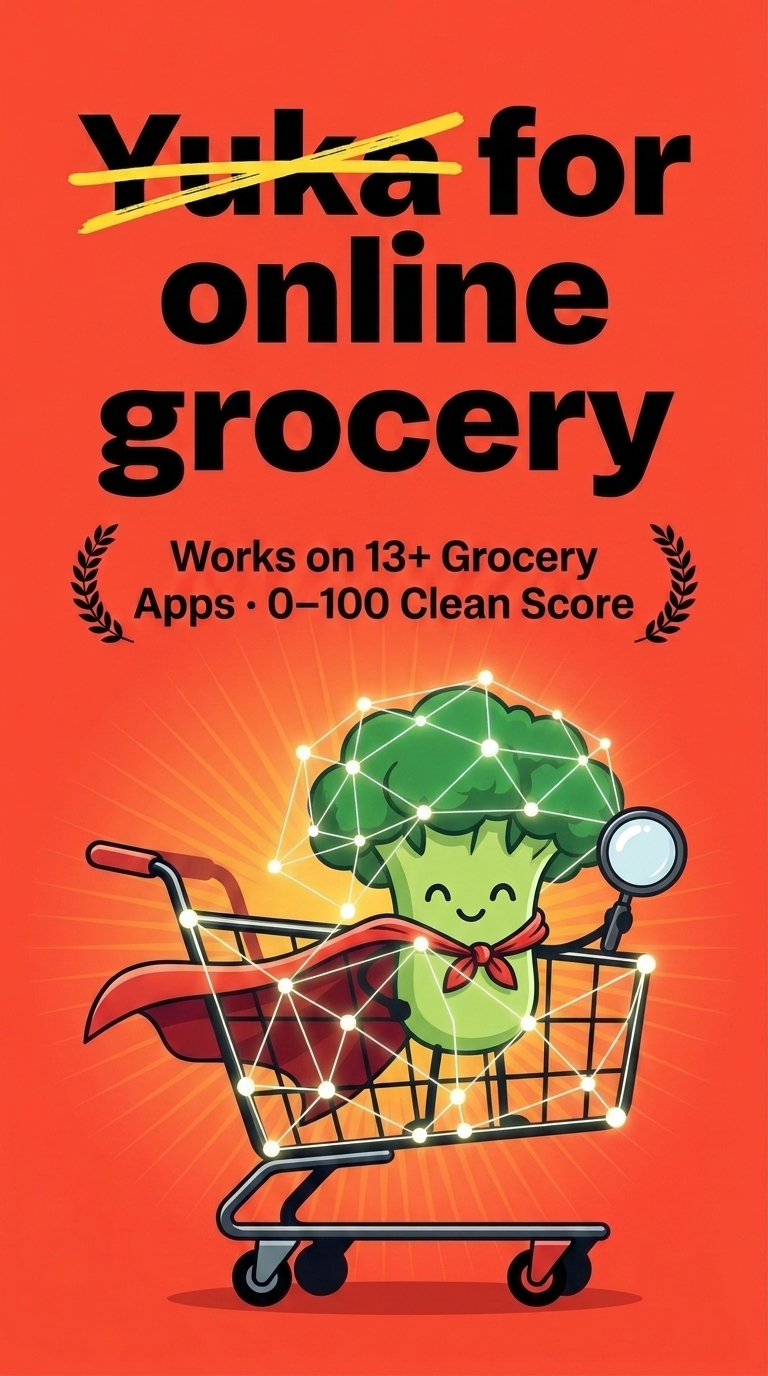
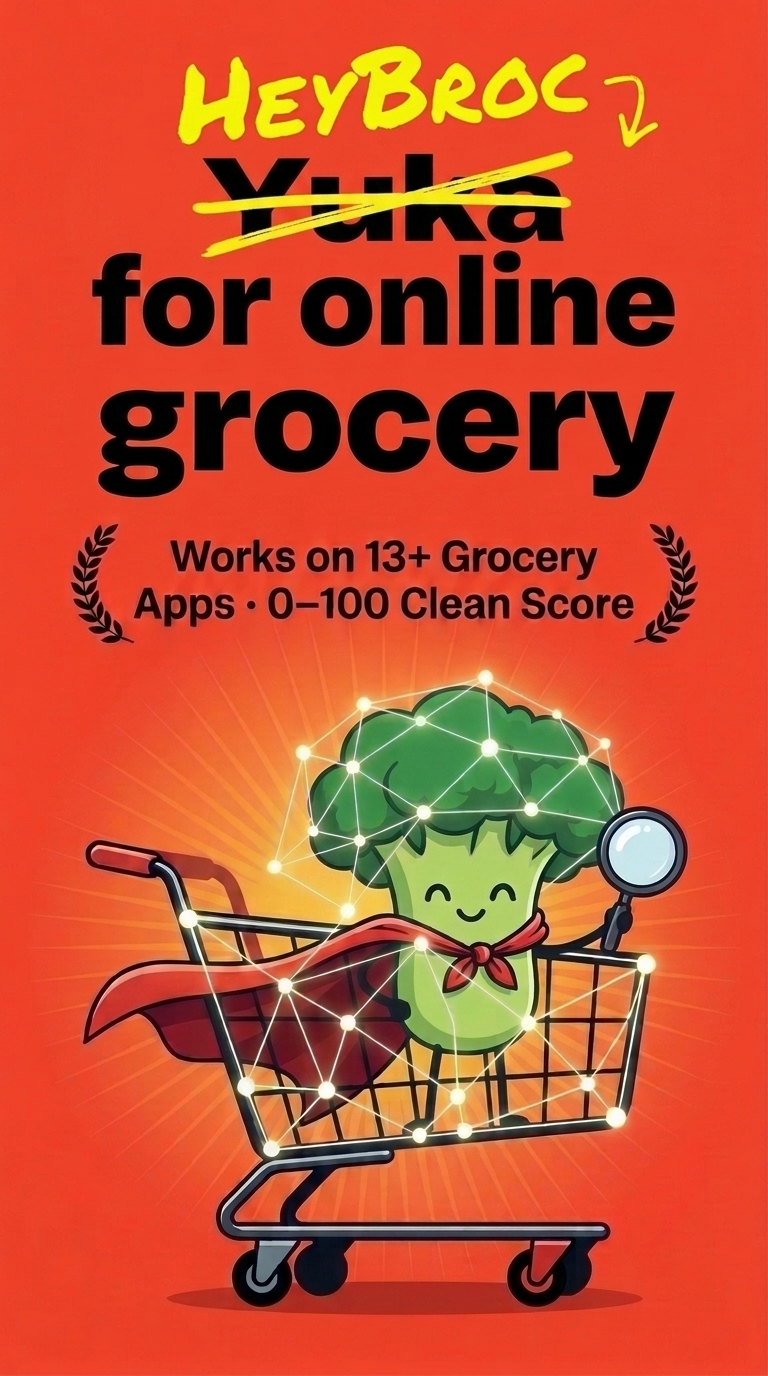
feat: add yellow HEYBROC scribble to ASO Slide 1 and build Clean Cart Streak mechanism

diff --git a/components/Simulator.tsx b/components/Simulator.tsx
@@ -603,6 +603,7 @@ export default function Simulator() {
   const [yukaTab, setYukaTab] = useState<"inspect" | "history" | "recs" | "top" | "search">("inspect");
   const [favOnly, setFavOnly] = useState(false);
   const [favorites, setFavorites] = useState<string[]>([]);
+  const [streakDays, setStreakDays] = useState<number>(1);
   const [scanHistory, setScanHistory] = useState<{ product: Product; timeLabel: string }[]>(() => [
     { product: presetToProduct(PRESETS[0]), timeLabel: "Just now" },
     { product: cleanToProduct("Butter/Dairy"), timeLabel: "12 mins ago" },
@@ -610,6 +611,26 @@ export default function Simulator() {
     { product: cleanToProduct("Yogurt"), timeLabel: "Yesterday" },
     { product: presetToProduct(PRESETS[3]), timeLabel: "3 days ago" },
   ]);
+
+  useEffect(() => {
+    try {
+      const todayEpoch = Math.floor(Date.now() / 86_400_000);
+      const raw = window.localStorage.getItem("heybroc_streak_dates_v1");
+      const parsed: number[] = raw ? JSON.parse(raw) : [];
+      const daySet = new Set<number>(Array.isArray(parsed) ? parsed : []);
+      daySet.add(todayEpoch);
+      window.localStorage.setItem("heybroc_streak_dates_v1", JSON.stringify(Array.from(daySet)));
+      let count = 0;
+      let cursor = todayEpoch;
+      while (daySet.has(cursor)) {
+        count += 1;
+        cursor -= 1;
+      }
+      setStreakDays(Math.max(1, count));
+    } catch {
+      // ignore storage errors
+    }
+  }, [scanHistory.length, favorites.length]);
 
   const toggleFavorite = useCallback((key: string) => {
     setFavorites((prev) => (prev.includes(key) ? prev.filter((k) => k !== key) : [...prev, key]));
@@ -2013,6 +2034,88 @@ export default function Simulator() {
                       {/* ==================== TAB 2: YUKA HISTORY & FAVORITES ==================== */}
                       {yukaTab === "history" && (
                         <div className="yuka-history">
+                          {!favOnly && (
+                            <div
+                              style={{
+                                margin: "8px 12px 12px",
+                                padding: "14px 16px",
+                                borderRadius: "18px",
+                                background: "#fafafa",
+                                border: "1px solid #e5e7eb",
+                                display: "flex",
+                                flexDirection: "column",
+                                alignItems: "center",
+                                gap: "10px",
+                              }}
+                            >
+                              <div style={{ display: "flex", alignItems: "center", gap: "10px" }}>
+                                {/* eslint-disable-next-line @next/next/no-img-element */}
+                                <img
+                                  src="/broc-mascot.jpg"
+                                  alt="HeyBroc"
+                                  style={{ width: 34, height: 34, borderRadius: "50%", objectFit: "cover" }}
+                                />
+                                <div>
+                                  <div style={{ fontSize: 15, fontWeight: 800, color: "#111814" }}>
+                                    Clean Cart Streak: Day {streakDays}
+                                  </div>
+                                  <div style={{ fontSize: 11.5, color: "#6b7280" }}>
+                                    Scan groceries or tap Clean Swaps daily to grow your streak
+                                  </div>
+                                </div>
+                              </div>
+
+                              <div style={{ display: "flex", alignItems: "center", gap: "10px" }}>
+                                {Array.from({ length: 5 }, (_, idx) => {
+                                  const startNum = streakDays <= 5 ? 1 : streakDays - 4;
+                                  const dayNum = startNum + idx;
+                                  const completed = dayNum <= streakDays;
+                                  return (
+                                    <span
+                                      key={dayNum}
+                                      style={{
+                                        width: 34,
+                                        height: 34,
+                                        borderRadius: "50%",
+                                        display: "inline-flex",
+                                        alignItems: "center",
+                                        justifyContent: "center",
+                                        fontSize: 13,
+                                        fontWeight: 800,
+                                        background: completed ? "#3E9B4F" : "#E8F5EC",
+                                        color: completed ? "#ffffff" : "#166534",
+                                        border: completed ? "none" : "1px solid #BBF7D0",
+                                      }}
+                                    >
+                                      {dayNum}
+                                    </span>
+                                  );
+                                })}
+                              </div>
+
+                              <div style={{ display: "flex", flexWrap: "wrap", justifyContent: "center", gap: "6px" }}>
+                                {(["Seed-Oil Free", "No Red 40", "Allergy Guard"] as const).map((badge) => (
+                                  <button
+                                    key={badge}
+                                    type="button"
+                                    onClick={() => setWatchlistFunnelOpen(true)}
+                                    style={{
+                                      padding: "4px 10px",
+                                      borderRadius: 999,
+                                      fontSize: 11,
+                                      fontWeight: 700,
+                                      background: "#ffffff",
+                                      color: "#1f2937",
+                                      border: "1px solid #d1d5db",
+                                      cursor: "pointer",
+                                    }}
+                                  >
+                                    {badge}
+                                  </button>
+                                ))}
+                              </div>
+                            </div>
+                          )}
                           {favOnly && favorites.length === 0 ? (
                             <div className="yuka-empty-fav">
                               {/* eslint-disable-next-line @next/next/no-img-element */}

diff --git a/android-app/app/src/main/java/com/cleancart/overlay/MainActivity.kt b/android-app/app/src/main/java/com/cleancart/overlay/MainActivity.kt
@@ -541,6 +541,110 @@ class MainActivity : Activity() {
         }
     }
 
+    private fun buildCleanCartStreakCard(): View {
+        val streak = ScanHistoryStore.getStreakStatus(this)
+        val prefs = getSharedPreferences("ingredient_preferences", Context.MODE_PRIVATE)
+        val activeAllergies = prefs.getStringSet("dietaryWatchlist", emptySet())?.size ?: 0
+
+        return LinearLayout(this).apply {
+            orientation = LinearLayout.VERTICAL
+            gravity = Gravity.CENTER_HORIZONTAL
+            setPadding(dp(16), dp(14), dp(16), dp(14))
+            background = GradientDrawable().apply {
+                setColor(0xFFFAFAFA.toInt())
+                cornerRadius = dp(20).toFloat()
+                setStroke(dp(1), 0xFFE5E7EB.toInt())
+            }
+            layoutParams = LinearLayout.LayoutParams(
+                ViewGroup.LayoutParams.MATCH_PARENT,
+                ViewGroup.LayoutParams.WRAP_CONTENT
+            ).apply {
+                setMargins(dp(16), dp(4), dp(16), dp(10))
+            }
+
+            // Header Row: Mascot + "Clean Cart Streak: Day X"
+            addView(LinearLayout(context).apply {
+                orientation = LinearLayout.HORIZONTAL
+                gravity = Gravity.CENTER_VERTICAL
+                addView(ImageView(context).apply {
+                    setImageResource(R.drawable.broc_mascot)
+                    scaleType = ImageView.ScaleType.FIT_CENTER
+                    layoutParams = LinearLayout.LayoutParams(dp(34), dp(34)).apply {
+                        marginEnd = dp(10)
+                    }
+                })
+                addView(LinearLayout(context).apply {
+                    orientation = LinearLayout.VERTICAL
+                    addView(label("Clean Cart Streak: Day ${streak.streakDays}", 16f, 0xFF111814.toInt(), bold = true))
+                    addView(label("${streak.cleanCount} clean items in your library · Scan or swap daily!", 11.5f, 0xFF6B7280.toInt()))
+                })
+            })
+
+            // 5 Green Day Circles Row (matching Slide 5)
+            addView(LinearLayout(context).apply {
+                orientation = LinearLayout.HORIZONTAL
+                gravity = Gravity.CENTER
+                setPadding(0, dp(12), 0, dp(10))
+                streak.windowNumbers.forEachIndexed { i, (dayNum, completed) ->
+                    addView(label(
+                        dayNum.toString(),
+                        13.5f,
+                        if (completed) Color.WHITE else 0xFF166534.toInt(),
+                        bold = true
+                    ).apply {
+                        gravity = Gravity.CENTER
+                        background = GradientDrawable().apply {
+                            shape = GradientDrawable.OVAL
+                            setColor(if (completed) 0xFF3E9B4F.toInt() else 0xFFE8F5EC.toInt())
+                            if (!completed) {
+                                setStroke(dp(1), 0xFFBBF7D0.toInt())
+                            }
+                        }
+                        layoutParams = LinearLayout.LayoutParams(dp(36), dp(36)).apply {
+                            if (i < streak.windowNumbers.lastIndex) marginEnd = dp(10)
+                        }
+                    })
+                }
+            })
+
+            // 3 Protection Badges Row: Seed-Oil Free · No Red 40 · Allergy Guard
+            addView(LinearLayout(context).apply {
+                orientation = LinearLayout.HORIZONTAL
+                gravity = Gravity.CENTER
+                val pills = listOf(
+                    "Seed-Oil Free" to false,
+                    "No Red 40" to false,
+                    (if (activeAllergies > 0) "Allergy Guard ($activeAllergies)" else "Allergy Guard") to true
+                )
+                pills.forEachIndexed { idx, (pillText, opensAllergyModal) ->
+                    addView(label(pillText, 11f, 0xFF1F2937.toInt(), bold = true).apply {
+                        setPadding(dp(10), dp(4), dp(10), dp(4))
+                        background = GradientDrawable().apply {
+                            setColor(Color.WHITE)
+                            cornerRadius = dp(999).toFloat()
+                            setStroke(dp(1), 0xFFD1D5DB.toInt())
+                        }
+                        layoutParams = LinearLayout.LayoutParams(
+                            ViewGroup.LayoutParams.WRAP_CONTENT,
+                            ViewGroup.LayoutParams.WRAP_CONTENT
+                        ).apply {
+                            if (idx < pills.lastIndex) marginEnd = dp(6)
+                        }
+                        setOnClickListener {
+                            if (opensAllergyModal) {
+                                showAllergyAndDietModal()
+                            } else {
+                                activeTab = 3
+                                expandedPrefSection = "watchlist"
+                                renderScreen()
+                            }
+                        }
+                    })
+                }
+            })
+        }
+    }
+
     private fun renderHistoryTab() {
         val a11yServiceEnabled = isAccessibilityEnabled()
         val consentOk = AccessibilityConsent.granted(this)
@@ -589,6 +693,11 @@ class MainActivity : Activity() {
                     }
                 })
             })
+        }
+
+        // Clean Cart Streak Card (matching Slide 5 of the ASO store deck)
+        if (!historyFavoritesOnly) {
+            tabContentContainer.addView(buildCleanCartStreakCard())
         }
 
         val items = if (historyFavoritesOnly) {

diff --git a/android-app/app/src/main/java/com/cleancart/overlay/ScanHistoryStore.kt b/android-app/app/src/main/java/com/cleancart/overlay/ScanHistoryStore.kt
@@ -12,7 +12,72 @@ object ScanHistoryStore {
     private const val PREFS = "heybroc_yuka_store_v1"
     private const val KEY_HISTORY = "scan_history_json"
     private const val KEY_FAVORITES = "favorites_json"
+    private const val KEY_STREAK_DATES = "clean_cart_streak_dates_v1"
     private const val MAX_HISTORY = 80
+
+    data class StreakStatus(
+        val streakDays: Int,
+        val windowNumbers: List<Pair<Int, Boolean>>,
+        val cleanCount: Int
+    )
+
+    private fun epochDay(ms: Long = System.currentTimeMillis()): Long =
+        java.util.concurrent.TimeUnit.MILLISECONDS.toDays(ms + java.util.TimeZone.getDefault().rawOffset)
+
+    fun recordStreakActivity(context: Context, timestampMs: Long = System.currentTimeMillis()) {
+        val prefs = context.getSharedPreferences(PREFS, Context.MODE_PRIVATE)
+        val day = epochDay(timestampMs)
+        val existing = prefs.getStringSet(KEY_STREAK_DATES, emptySet()).orEmpty().toMutableSet()
+        if (existing.add(day.toString())) {
+            prefs.edit().putStringSet(KEY_STREAK_DATES, existing).apply()
+        }
+    }
+
+    fun getStreakStatus(context: Context): StreakStatus {
+        val prefs = context.getSharedPreferences(PREFS, Context.MODE_PRIVATE)
+        val storedDays = prefs.getStringSet(KEY_STREAK_DATES, emptySet()).orEmpty()
+            .mapNotNull { it.toLongOrNull() }
+            .toMutableSet()
+
+        val history = getHistory(context)
+        val favs = getFavorites(context)
+        (history + favs).forEach { item ->
+            val ts = item.optLong("scannedAtMs", 0L).takeIf { it > 0L }
+                ?: item.optLong("favoritedAtMs", 0L)
+            if (ts > 0L) storedDays.add(epochDay(ts))
+        }
+
+        val today = epochDay()
+        // Record today's visit so the shopper's active session always counts toward their daily Clean Cart Streak
+        if (storedDays.add(today)) {
+            prefs.edit().putStringSet(KEY_STREAK_DATES, storedDays.map { it.toString() }.toSet()).apply()
+        }
+
+        var streak = 0
+        var cursor = today
+        while (storedDays.contains(cursor)) {
+            streak++
+            cursor--
+        }
+        val effectiveStreak = streak.coerceAtLeast(1)
+
+        // Build the 5-circle progress window matching Slide 5 (e.g. 1..5, or trailing 5 days up to effectiveStreak)
+        val startNum = if (effectiveStreak <= 5) 1 else (effectiveStreak - 4)
+        val window = (startNum until (startNum + 5)).map { dayNum ->
+            dayNum to (dayNum <= effectiveStreak)
+        }
+
+        val cleanItemsCount = (history + favs).count { item ->
+            val sc = item.optJSONObject("result")?.optInt("score") ?: item.optInt("score", 0)
+            sc >= 75
+        }
+
+        return StreakStatus(
+            streakDays = effectiveStreak,
+            windowNumbers = window,
+            cleanCount = cleanItemsCount
+        )
+    }
 
     fun extractTitle(item: JSONObject): String =
         item.optJSONObject("product")?.optString("title").orEmpty()
@@ -37,8 +102,9 @@ object ScanHistoryStore {
         val key = normKey(title)
         if (key.isBlank()) return
 
+        val now = System.currentTimeMillis()
         val copy = JSONObject(rawScanJson.toString()).apply {
-            put("scannedAtMs", System.currentTimeMillis())
+            put("scannedAtMs", now)
             put("storeKey", storeKey)
         }
 
@@ -49,6 +115,7 @@ object ScanHistoryStore {
             existing.take(MAX_HISTORY - 1).forEach { put(it) }
         }
         prefs.edit().putString(KEY_HISTORY, updated.toString()).apply()
+        recordStreakActivity(context, now)
     }
 
     fun getHistory(context: Context): List<JSONObject> {

diff --git a/store-assets/STORE_SUBMISSION_KIT.md b/store-assets/STORE_SUBMISSION_KIT.md
@@ -14,7 +14,8 @@
 - **Google Play Feature Graphic (1024×500 PNG, 24-bit RGB):** [`store-assets/google-play/feature-graphic-1024x500.png`](file:///home/antigravity/derek22190/cleancart/store-assets/google-play/feature-graphic-1024x500.png)
 - **Apple App Store Icon (1024×1024 PNG, 24-bit RGB opaque, no alpha):** [`store-assets/apple-app-store/icon-1024x1024.png`](file:///home/antigravity/derek22190/cleancart/store-assets/apple-app-store/icon-1024x1024.png)
 - **Interactive 6-Slide ASO Screenshot Gallery:** [`store-assets/aso-screenshots/index.html`](file:///home/antigravity/derek22190/cleancart/store-assets/aso-screenshots/index.html)
-  - Slide 1 (Hook Poster — HeyBroc Mascot in Cart with Red Superhero Cape): [`store-assets/aso-screenshots/slide-1-hook-poster.jpg`](file:///home/antigravity/derek22190/cleancart/store-assets/aso-screenshots/slide-1-hook-poster.jpg)
+  - Slide 1 (Hook Poster — Yellow `"HEYBROC ⤵"` Scribbled Above Crossed-Out `"Yuka"` + HeyBroc Mascot in Cart with Red Superhero Cape): [`store-assets/aso-screenshots/slide-1-hook-poster.jpg`](file:///home/antigravity/derek22190/cleancart/store-assets/aso-screenshots/slide-1-hook-poster.jpg)
+    - *Store-Reviewer Fallback (if `"Yuka"` trademark is ever flagged during review — uses `"Barcode Apps"` crossed out instead):* [`store-assets/aso-screenshots/slide-1-hook-poster-store-safe.jpg`](file:///home/antigravity/derek22190/cleancart/store-assets/aso-screenshots/slide-1-hook-poster-store-safe.jpg)
   - Slide 2 (0–100 Clean Score & 1-Tap Swap): [`store-assets/aso-screenshots/slide-2-score-card.jpg`](file:///home/antigravity/derek22190/cleancart/store-assets/aso-screenshots/slide-2-score-card.jpg)
   - Slide 3 (Flagged Additives Breakdown): [`store-assets/aso-screenshots/slide-3-flagged-additives.jpg`](file:///home/antigravity/derek22190/cleancart/store-assets/aso-screenshots/slide-3-flagged-additives.jpg)
   - Slide 4 (Clean Grocery Library & 13 Apps): [`store-assets/aso-screenshots/slide-4-clean-library.jpg`](file:///home/antigravity/derek22190/cleancart/store-assets/aso-screenshots/slide-4-clean-library.jpg)
